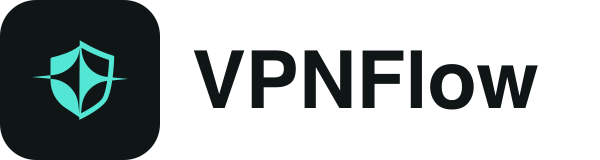
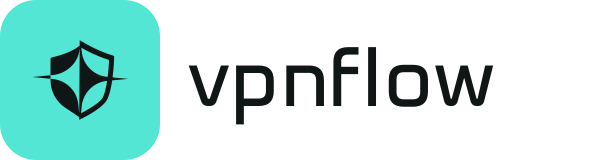
docs: header in the FlowApps brand (teal tile, lowercase vpnflow)

diff --git a/README.md b/README.md
@@ -1,7 +1,7 @@
 <p align="left">
   <picture>
     <source media="(prefers-color-scheme: dark)" srcset="assets/header-dark.png">
-    <img src="assets/header-light.png" width="600" height="160" alt="VPNFlow logo and name">
+    <img src="assets/header-light.png" width="600" height="160" alt="vpnflow logo and name">
   </picture>
 </p>
 
